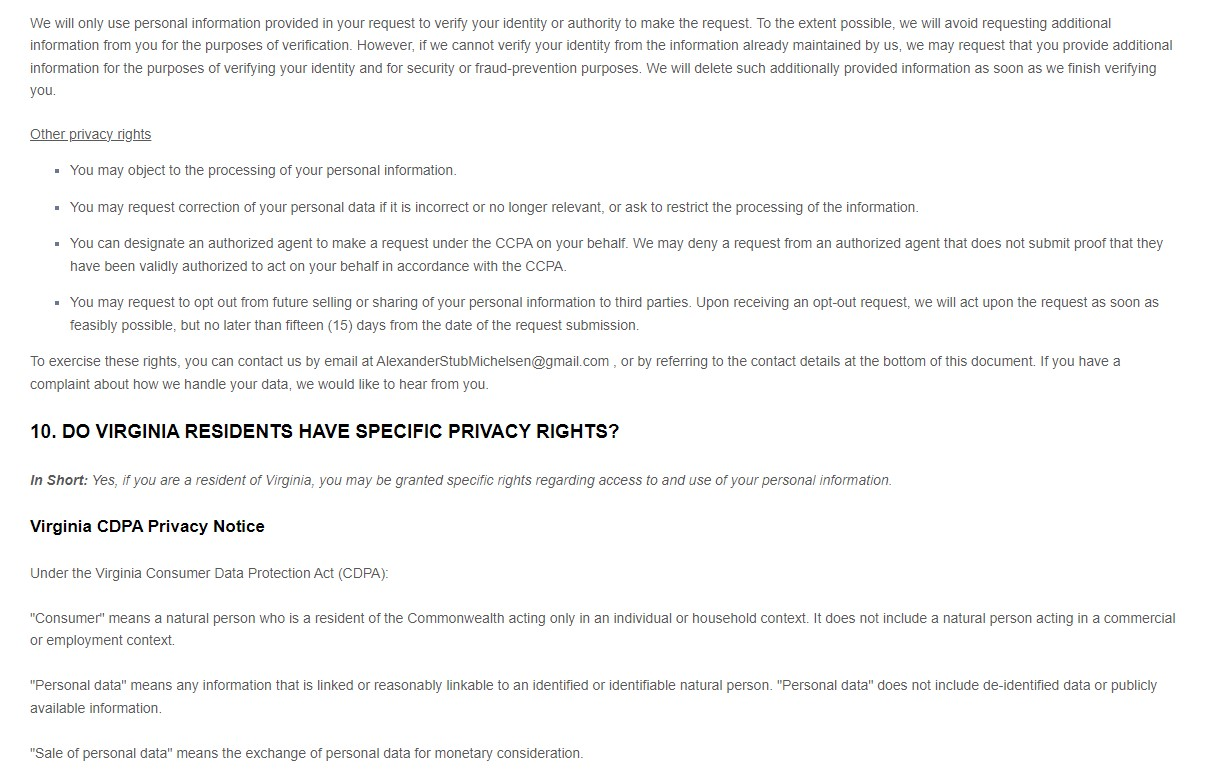
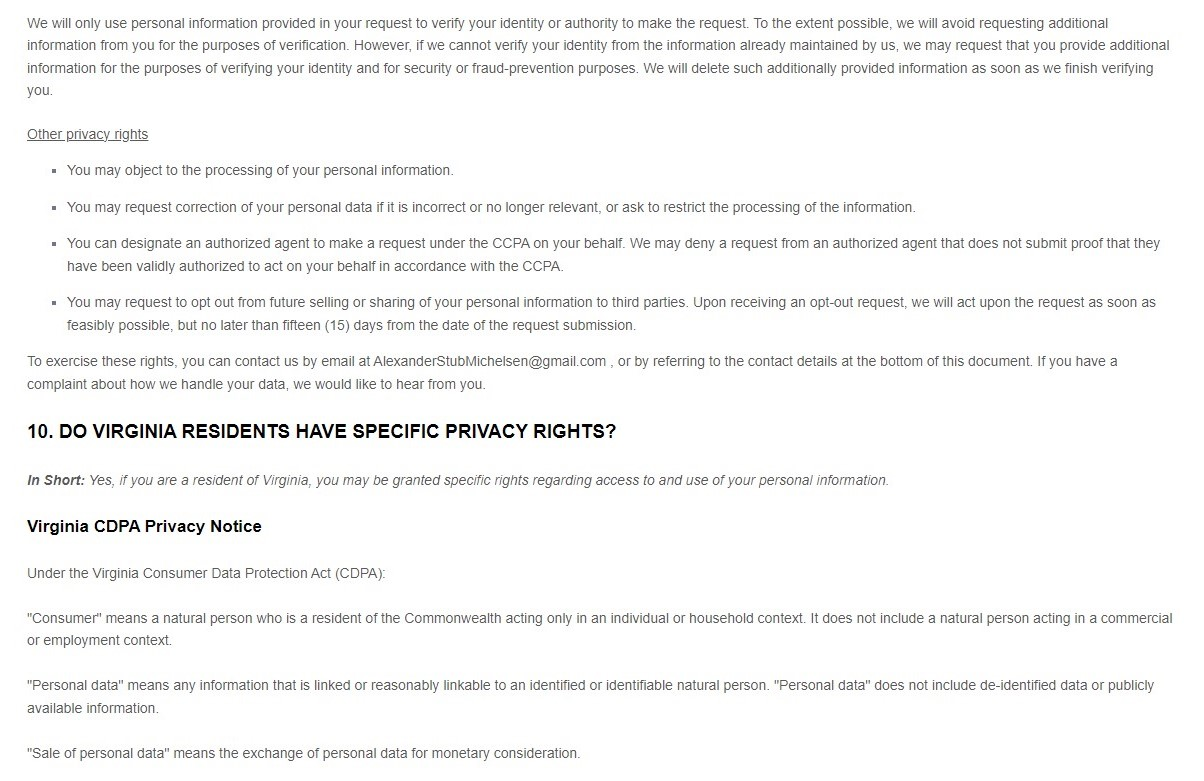
Privacy policy css.
Still looks like shit, but it works.

diff --git a/src/App.js b/src/App.js
@@ -60,7 +60,7 @@ function App() {
             </div>
             
         </div>
-
+        <div className="Privacy-policy">
         <img src={PrivacyPolicy1} alt="PrivacyPolicy1" />
         <img src={PrivacyPolicy2} alt="PrivacyPolicy2" />
         <img src={PrivacyPolicy3} alt="PrivacyPolicy3" />
@@ -73,7 +73,7 @@ function App() {
         <img src={PrivacyPolicy10} alt="PrivacyPolicy10" />
         <img src={PrivacyPolicy11} alt="PrivacyPolicy11" />
         <img src={PrivacyPolicy12} alt="PrivacyPolicy12" />
-
+        </div>
         <p>
           Edit <code>src/App.js</code> and save to reload.
         </p>

diff --git a/src/App.css b/src/App.css
@@ -52,6 +52,11 @@
   border: 20px solid rgba(0, 0, 0, 0.05);
 }
 
+.Privacy-policy {
+  width: 50%;
+  padding-right: 10cm;
+}
+
 .App-img-grey {
   width: 428px;
   border-bottom: 100px;
